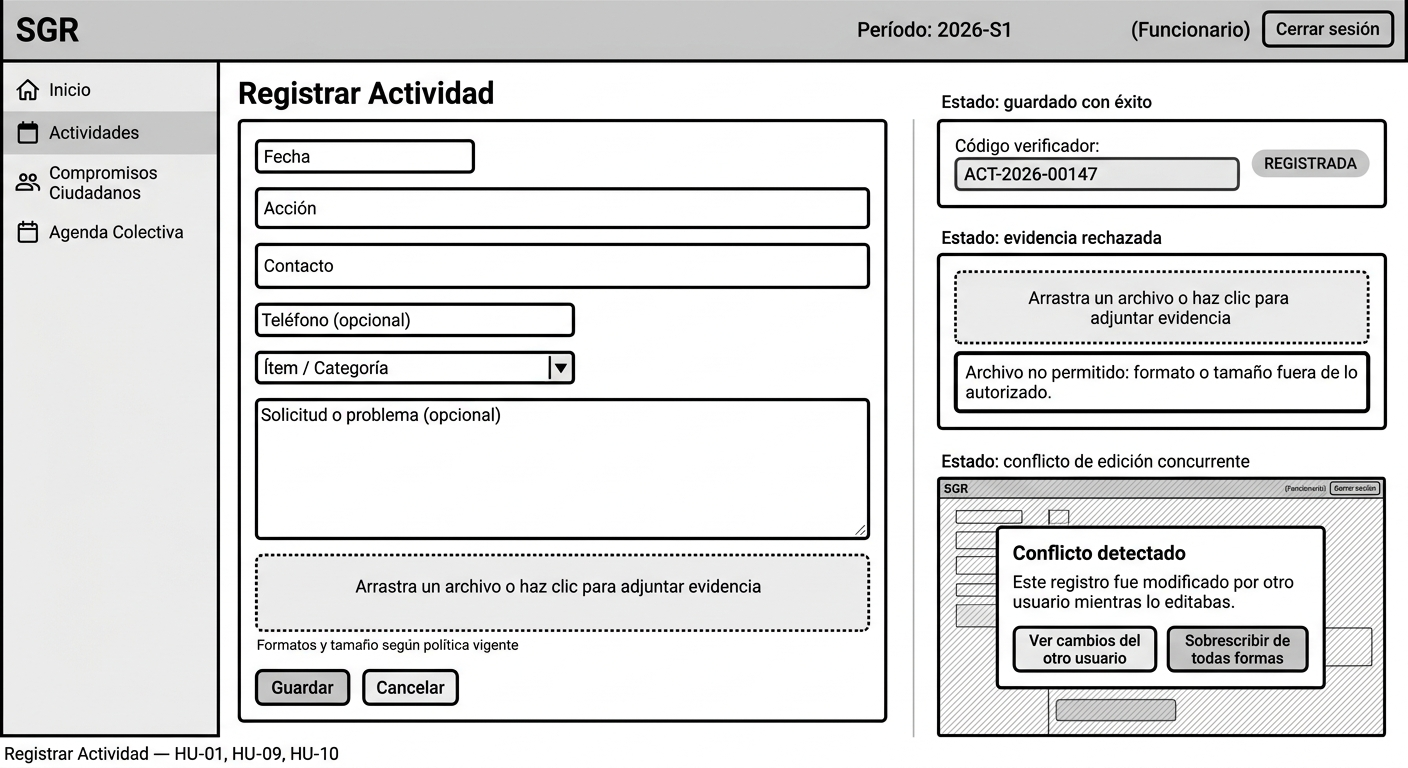
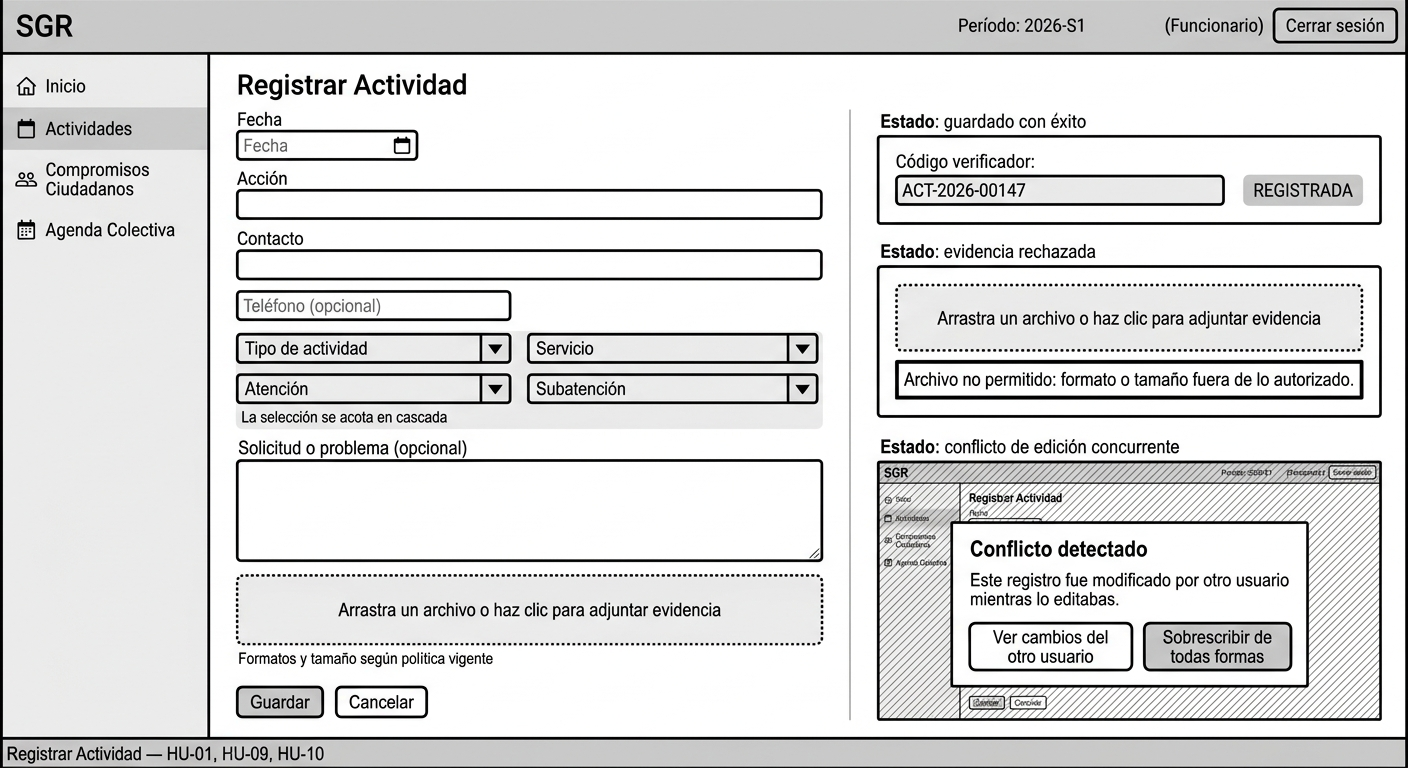
corregir pantalla 2 wireframe

Changed region(s): [[0.0, 0.0, 1.0, 1.0]]

diff --git a/actividad-3.md b/actividad-3.md
@@ -394,13 +394,10 @@ acceder fuera de su ámbito, entonces el acceso se deniega y el intento queda re
 ![Wireframe — Registrar Actividad con Evidencia](assets/actividad-3/wireframes/wf-02-registrar-actividad.png)
 
 Formulario de HU-01 con adjuntar evidencia (HU-09) y generación de código verificador (HU-10) al guardar,
-más el modal de conflicto de edición concurrente de HU-23 criterio 2.
-
-> **Pendiente:** el wireframe muestra un único campo "Ítem / Categoría". Tras incorporar las 4
-> asociaciones con rol entre `Actividad` y `ElementoCatalogo` (ver punto 3, "Relaciones destacadas"),
-> este mockup debería actualizarse a 4 selectores (tipo de actividad, servicio, atención, subatención)
-> para no quedar inconsistente con el diagrama de clases. No se regenera en este cambio porque el
-> wireframe es una imagen (`wf-02-registrar-actividad.png`) sin fuente editable versionada en el repo.
+más el modal de conflicto de edición concurrente de HU-23 criterio 2. El wireframe incorpora los 4
+selectores en cascada (tipo de actividad, servicio, atención, subatención) que corresponden a las 4
+asociaciones con rol entre `Actividad` y `ElementoCatalogo` (ver punto 3, "Relaciones destacadas"),
+quedando así consistente con el diagrama de clases.
 
 #### Pantalla 3 — Validar Evidencia
 
